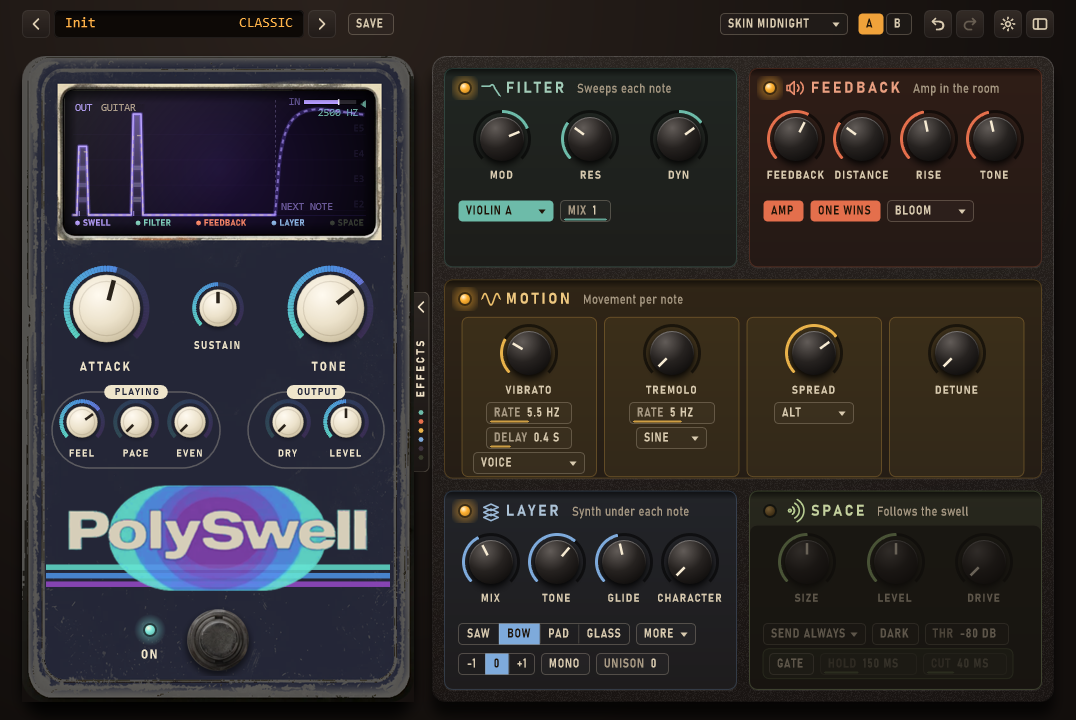
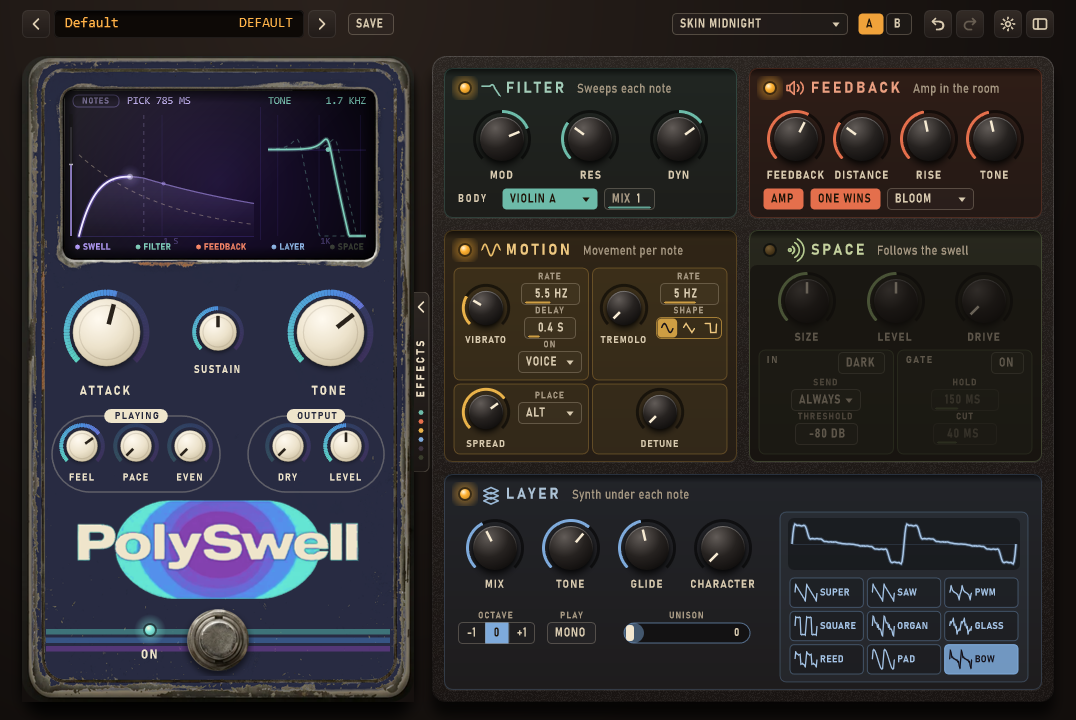
POG2 curve without the make-up gain (ATTACK only shapes the swell, LEVEL sets the volume); presets rebalanced; Sunburst Night skin

Changed region(s): [[0.0, 0.0, 0.9814, 0.9778], [0.6134, 0.0, 0.7361, 0.0611]]

diff --git a/site/index.html b/site/index.html
@@ -14,6 +14,7 @@
     --r1: #e09a45; --r2: #d9732f; --r3: #bc4320; --accent: #d9732f; --onAccent: #fff4df;
   }
   body[data-skin="lagoon"]   { --r1: #4fc3b5; --r2: #3b86c9; --r3: #6a3aa0; --accent: #3b86c9; --onAccent: #f2f6ff; }
+  body[data-skin="night"]    { --bg: #161310; --paper: #1f1b17; --ink: #efe5cb; --ink2: #b3a68f; --line: rgba(239,229,203,.18); }
   body[data-skin="midnight"] { --bg: #1b1d2c; --paper: #23263a; --ink: #efe5cb; --ink2: #b3aa95; --line: rgba(239,229,203,.18);
                                --r1: #5ed6c5; --r2: #4c8fe0; --r3: #9248c2; --accent: #4c8fe0; --onAccent: #f2f6ff; }
   * { box-sizing: border-box; }
@@ -80,6 +81,7 @@
     <button data-skin="sunburst" aria-pressed="true">Sunburst</button>
     <button data-skin="lagoon" aria-pressed="false">Lagoon</button>
     <button data-skin="midnight" aria-pressed="false">Midnight</button>
+    <button data-skin="night" aria-pressed="false">Night</button>
   </div>
 
   <section>
@@ -89,7 +91,7 @@
       <div class="card"><h3>Follows your playing</h3><p>FEEL, PACE and EVEN shape the swell from how hard and how fast you play.</p></div>
       <div class="card"><h3>Note-aware effects</h3><p>Filter sweeps, amp-in-the-room feedback, vibrato and detune, a synth layer under each note, and a space that follows the swell.</p></div>
       <div class="card"><h3>See what you hear</h3><p>A live window draws every note you play, and shows a picture of what each knob does while you turn it.</p></div>
-      <div class="card"><h3>Made to play</h3><p>Presets for Lead, Pad and Feedback, undo/redo, A/B compare, MIDI learn for footswitches and expression pedals, and three skins.</p></div>
+      <div class="card"><h3>Made to play</h3><p>Presets for Lead, Pad and Feedback, undo/redo, A/B compare, MIDI learn for footswitches and expression pedals, and four skins.</p></div>
       <div class="card"><h3>Light on CPU</h3><p>Built to run next to your amp sim, with no added latency on the main path.</p></div>
     </div>
   </section>

diff --git a/Source/PluginEditor.cpp b/Source/PluginEditor.cpp
@@ -50,9 +50,10 @@ struct Skin
     juce::Image plateImg() const { return juce::ImageCache::getFromMemory (plate, plateSize); }
     juce::Image logoImg() const  { return juce::ImageCache::getFromMemory (logo, logoSize); }
 };
+constexpr int kNumSkins = 4;   // Sunburst, Lagoon, Midnight, Sunburst Night
 const Skin& skinAt (int i)
 {
-    static const Skin s[3] = {
+    static const Skin s[kNumSkins] = {
         { "Sunburst", BinaryData::plate_sunburst_png, BinaryData::plate_sunburst_pngSize, BinaryData::logo_sunburst_png, BinaryData::logo_sunburst_pngSize,
           Colour (0xff2a231b), Colour (0xffefe5cc), Colour (0x592a231b), Colour (0xffd9732f), Colour (0xfffff4df), Colour (0xffffb030),
           { Colour (0xffe09a45), Colour (0xffd9732f), Colour (0xffbc4320) },
@@ -64,8 +65,12 @@ const Skin& skinAt (int i)
         { "Midnight", BinaryData::plate_midnight_png, BinaryData::plate_midnight_pngSize, BinaryData::logo_midnight_png, BinaryData::logo_midnight_pngSize,
           Colour (0xffefe5cb), Colour (0xff23263a), Colour (0x47efe5cb), Colour (0xff4c8fe0), Colour (0xfff2f6ff), Colour (0xff7fe9dc),
           { Colour (0xff5ed6c5), Colour (0xff4c8fe0), Colour (0xff9248c2) },
-          Colour (0xff1d1036), Colour (0xff06040b), Colour (0xff7a5cff), Colour (0xffb49bff), Colour (0xfff1eaff), Colour (0xff9a86e6), Colour (0xffcbb8ff) } };
-    return s[juce::jlimit (0, 2, i)];
+          Colour (0xff1d1036), Colour (0xff06040b), Colour (0xff7a5cff), Colour (0xffb49bff), Colour (0xfff1eaff), Colour (0xff9a86e6), Colour (0xffcbb8ff) },
+        { "Sunburst Night", BinaryData::plate_night_png, BinaryData::plate_night_pngSize, BinaryData::logo_night_png, BinaryData::logo_night_pngSize,
+          Colour (0xffefe5cb), Colour (0xff1c1916), Colour (0x47efe5cb), Colour (0xffd9732f), Colour (0xfffff4df), Colour (0xffffb030),
+          { Colour (0xffe09a45), Colour (0xffd9732f), Colour (0xffbc4320) },
+          Colour (0xff3a1a08), Colour (0xff0c0503), Colour (0xffff8a1f), Colour (0xffffb347), Colour (0xfffff1cf), Colour (0xffe89a45), Colour (0xffffc777) } };
+    return s[juce::jlimit (0, kNumSkins - 1, i)];
 }
 
 // ------------------------------------------------------------------------------------------------ geometry
@@ -991,14 +996,7 @@ struct SignalWindow : juce::Component, juce::Timer
             // after the swell: from the matched level, at SUSTAIN's rate (or the string's own, without SUSTAIN)
             return during (attack) * std::pow (10.f, -rate * (t - attack) / 20.f);
         }
-        return pogGain (attack) * std::pow (10.f, (-8.f * t + lift) / 20.f) * swellGain (attack < 0.002f ? 1.f : t / attack, juce::roundToInt (P ("swellShape")));
-    }
-    // the POG2 shape's own make-up gain (as the engine; none with MATCH)
-    float pogGain (float attack) const
-    {
-        if (juce::roundToInt (P ("swellShape")) != 2 || P ("levelMatch") > 0.5f || attack < 0.002f) return 1.f;
-        const float tau = juce::jmax (attack / 3.f, 1.0e-3f);
-        return std::pow (10.f, juce::jlimit (0.f, 13.f, 5.75f + 4.83f * (std::log10 (tau) + 0.745f)) / 20.f);
+        return std::pow (10.f, (-8.f * t + lift) / 20.f) * swellGain (attack < 0.002f ? 1.f : t / attack, juce::roundToInt (P ("swellShape")));
     }
     // PACE, as the engine: the swell fast playing allows (0.4 x the time since the last note), blended in by PACE
     float pacedAttack (float A, float gap) const
@@ -2204,7 +2202,7 @@ struct PolySwellEditor::Board : juce::Component, Host, juce::Timer
 
     void applySkin (int index)
     {
-        proc.uiSkin = juce::jlimit (0, 2, index);
+        proc.uiSkin = juce::jlimit (0, kNumSkins - 1, index);
         currentSkin = &skinAt (proc.uiSkin);
         look.skin = currentSkin;
         window.setSkin (*currentSkin);
@@ -2267,7 +2265,7 @@ struct PolySwellEditor::Board : juce::Component, Host, juce::Timer
         saveC->onPress = [this] { savePreset(); };
         skinC = chip (Chip::custom, "", "SKIN", col::amber, "Skin: the pedal's plate and colours (Sunburst, Lagoon, Midnight).", barOnly);
         skinC->textFn = [this] { return "SKIN " + String (skinAt (proc.uiSkin).name).toUpperCase(); };
-        skinC->setSize (128, 22);
+        skinC->setSize (176, 22);
         skinC->onPress = [this] { skinMenu (skinC); };
         for (int i = 0; i < 2; ++i)
         {
@@ -2607,7 +2605,7 @@ struct PolySwellEditor::Board : juce::Component, Host, juce::Timer
     void skinMenu (juce::Component* target)
     {
         juce::PopupMenu m;
-        for (int i = 0; i < 3; ++i) m.addItem (1 + i, skinAt (i).name, true, proc.uiSkin == i);
+        for (int i = 0; i < kNumSkins; ++i) m.addItem (1 + i, skinAt (i).name, true, proc.uiSkin == i);
         m.setLookAndFeel (&look);
         m.showMenuAsync (juce::PopupMenu::Options().withTargetComponent (target), [this] (int r) { if (r > 0) applySkin (r - 1); });
     }
@@ -2666,13 +2664,13 @@ struct PolySwellEditor::Board : juce::Component, Host, juce::Timer
         }
         m.addSubMenu ("ATTACK tempo sync", syncM);
         juce::PopupMenu skinM;
-        for (int i = 0; i < 3; ++i) skinM.addItem (380 + i, skinAt (i).name, true, proc.uiSkin == i);
+        for (int i = 0; i < kNumSkins; ++i) skinM.addItem (380 + i, skinAt (i).name, true, proc.uiSkin == i);
         m.addSubMenu ("Skin", skinM);
         m.setLookAndFeel (&look);
         m.showMenuAsync (juce::PopupMenu::Options().withTargetComponent (&gearB), [this, sizes] (int r)
         {
             auto flip = [this] (const char* id) { setParam (id, getParam (id) > 0.5f ? 0.f : 1.f); };
-            if (r >= 380 && r < 383) applySkin (r - 380);
+            if (r >= 380 && r < 380 + kNumSkins) applySkin (r - 380);
             else if (r >= 390 && r < 393) setParam ("swellShape", (float) (r - 390));
             else if (r == 395) setParam ("levelMatch", getParam ("levelMatch") > 0.5f ? 0.f : 1.f);
             else if (r == 400) setParam ("sync", 0.f);

diff --git a/Source/PluginProcessor.cpp b/Source/PluginProcessor.cpp
@@ -36,8 +36,8 @@ namespace
                                            { "fbRise", 1.2f }, { "smearOn", 1 }, { "smearLevel", 0.3f }, { "smearSize", 0.45f }, { "smearSend", 1 } } },
             // the owner's POG2 setting (run G1), fitted by rendering the test file (tools/pog2_compare.py): ATTACK 2 s,
             // 18 dB/oct at 1 kHz, the +-10 cent copies 15..19 dB under the note (MIX 0.39). Held notes ~2 dB, plucks ~4 dB.
-            { "POG2 swell", "Pad", { { "attack", 2000 }, { "freq", 1000 }, { "detune", 10.1f }, { "detuneMix", 0.39f } } },
-            { "Warm pad", "Pad", { { "attack", 1200 }, { "sustain", 0.8f }, { "freq", 1800 }, { "mod", 0.4f }, { "res", 0.15f },
+            { "POG2 swell", "Pad", { { "attack", 2000 }, { "vol", 8.5f }, { "freq", 1000 }, { "detune", 10.1f }, { "detuneMix", 0.39f } } },
+            { "Warm pad", "Pad", { { "attack", 1200 }, { "vol", 4.5f }, { "sustain", 0.8f }, { "freq", 1800 }, { "mod", 0.4f }, { "res", 0.15f },
                                    { "spread", 0.6f }, { "detuneMix", 0.5f }, { "smearOn", 1 }, { "smearSize", 0.7f }, { "smearLevel", 0.5f }, { "smearSend", 1 } } },
             { "Glass pad", "Pad", { { "attack", 900 }, { "sustain", 0.6f }, { "voiceMix", 0.4f }, { "voiceWave", 5 }, { "voiceOct", 2 }, { "voiceTone", 5000 },
                                     { "voiceUnison", 0.3f }, { "spread", 0.5f }, { "smearOn", 1 }, { "smearSize", 0.65f }, { "smearLevel", 0.45f } } },
@@ -1031,7 +1031,7 @@ void PolySwellProcessor::setStateInformation (const void* data, int size)
             userPresetLoaded = (bool) vt.getProperty ("userPreset", false);
             uiPedalsOpen = (bool) vt.getProperty ("uiPedalsOpen", true);
             uiScale = juce::jlimit (0.75f, 2.f, (float) (double) vt.getProperty ("uiScale", 1.0));
-            uiSkin = juce::jlimit (0, 2, (int) vt.getProperty ("uiSkin", 0));
+            uiSkin = juce::jlimit (0, 3, (int) vt.getProperty ("uiSkin", 0));
             uiWindowNotes = (bool) vt.getProperty ("uiWindowNotes", false);
             for (int i = 0; i < 3; ++i)
             {

diff --git a/Source/dsp/SwelloEngine.h b/Source/dsp/SwelloEngine.h
@@ -69,7 +69,7 @@ namespace tuning
     // come back to about their pick level (held notes come out louder): +2.3 dB at tau 31 ms, +5.9 dB at 166 ms,
     // +9.9 dB at 1.45 s. Fit: dB = 5.75 + 4.83 (log10(tau) + 0.745), 0..13 dB.
     constexpr float pogK              = 3.0f;
-    constexpr float pogGainDb0        = 5.75f, pogGainSlope = 4.83f, pogGainLogRef = -0.745f, pogGainMaxDb = 13.0f;
+    // (the measured make-up gain is documented above but not applied: see the attack gain in the frame loop)
     constexpr float matchMaxBoost     = 8.0f;    // level-matched swell: at most +18 dB of make-up
     constexpr float matchPeakFrom     = 0.03f;   // ... the pick's level is the loudest frame 30..110 ms after the onset
     constexpr float matchPeakSec      = 0.11f;   //     (the first frames hold the pick's click spread over many bins)
@@ -817,13 +817,8 @@ private:
             // 2) attack gain
             const float ph = phase[i];
             float g = swellGain(ph, params.swellShape) * binEven[i];
-            // POG2: the pedal's own make-up gain for this note's swell time (not with MATCH, which does the same job per note)
-            if (params.swellShape == 2 && ! params.levelMatch && T > 0.f)
-            {
-                const float tau = std::max(T * attackMul[i] / tuning::pogK, 1.0e-3f);
-                const float db = std::clamp(tuning::pogGainDb0 + tuning::pogGainSlope * (std::log10(tau) - tuning::pogGainLogRef), 0.f, tuning::pogGainMaxDb);
-                g *= std::pow(10.f, db / 20.f);
-            }
+            // (POG2: the pedal's own make-up gain, which grows with ATTACK, is NOT modelled - owner, 2026-11-22: it made long
+            // swells jump back to full level within a second and did LEVEL's job unseen. MATCH is the per-note alternative.)
             if (params.bowedBody) g *= bodyGain[i];
             if (repickFloor[i] > 0.f)
             {

diff --git a/tests/engine_test.cpp b/tests/engine_test.cpp
@@ -1386,7 +1386,7 @@ int main()
         check(rms < 0.002, "muting the string kills the feedback");
     }
 
-    std::printf("Test 36: POG2 swell (measured: 1 - e^(-t/tau), tau = ATTACK / 3, plus the pedal's make-up gain)\n");
+    std::printf("Test 36: POG2 swell (measured: 1 - e^(-t/tau), tau = ATTACK / 3; the pedal's make-up gain is left out)\n");
     {
         const int n = at(3.0), t0 = at(0.2);
         std::vector<float> x((size_t) n, 0.f);
@@ -1402,7 +1402,7 @@ int main()
                     at1, classicAt, gainDb, matchDb);
         check(at1 > 0.5 && at1 < 0.75, "POG2 shape: fast start, about 63 % after one time constant");
         check(classicAt < 0.25, "the classic shape starts slowly (for comparison)");
-        check(gainDb > 4.5 && gainDb < 7.0, "POG2 make-up gain for a 0.5 s swell (about +6 dB, as measured)");
+        check(std::abs(gainDb) < 1.0, "no make-up gain: a swell settles at the guitar's own level (LEVEL sets the volume)");
         check(std::abs(matchDb) < 1.0, "with MATCH the POG2 gain is left out (MATCH does that job per note)");
     }
 

diff --git a/Source/PluginEditor.h b/Source/PluginEditor.h
@@ -15,7 +15,7 @@ public:
     void setPanelOpen (bool open);      // show / hide the effects panel (the window gets narrower)
     void setUiScale (float scale);      // 0.75 .. 2
     void showKnobView (const juce::String& paramId, bool on);   // as if the mouse were over that knob (ui_snapshot)
-    void setSkin (int index);           // 0 Sunburst, 1 Lagoon, 2 Midnight
+    void setSkin (int index);           // 0 Sunburst, 1 Lagoon, 2 Midnight, 3 Sunburst Night
 
     static constexpr int kBaseW = 1076, kPedalOnlyW = 436, kBaseH = 720;
 

diff --git a/tools/ui_snapshot.cpp b/tools/ui_snapshot.cpp
@@ -316,7 +316,7 @@ int main (int argc, char** argv)
     if (pe != nullptr)
     {
         pe->setUiScale (1.f);
-        for (int sk = 0; sk < 3; ++sk) { pe->setSkin (sk); pump (300); shoot (e, out.getChildFile ("skin_" + juce::String (sk) + ".png")); }
+        for (int sk = 0; sk < 4; ++sk) { pe->setSkin (sk); pump (300); shoot (e, out.getChildFile ("skin_" + juce::String (sk) + ".png")); }
         pe->setSkin (0);
     }
 

diff --git a/CLAUDE.md b/CLAUDE.md
@@ -218,3 +218,9 @@ rings (outer = lightest). Switch: SKIN chip in the top bar or gear > Skin; saved
   faded unless an IR is chosen. Window caption says FEEL+PACE when both changed a pick's attack; the hardest pick peaks
   at 95 % (was clipped). MOTION = 2 x 2 boxes (VIBRATO | TREMOLO with settings beside, SPREAD | DETUNE), tremolo SHAPE
   as pictures (`ShapeSeg`). Midnight plate regenerated from Sunburst (only warm cream paint -> navy; rim and worn frame kept).
+- POG2 make-up gain removed (owner: a 12 s ATTACK still jumped back to full level within ~1 s; LEVEL is the volume).
+  Measured: with only DRY OUTPUT up and ATTACK at 0 the POG2 is unity (1.00); the gain grows with its ATTACK (+2.2 dB at
+  1/4, +5.9 at 1/2, +8.3 at 3/4). Only the curve shape is modelled now; MATCH is the per-note "back to pick level".
+  Test 36 checks there is no gain. Presets POG2 swell (+8.5 dB LEVEL) and Warm pad (+4.5) rebalanced (`--peaks`).
+- Fourth skin Sunburst Night (`kNumSkins`): charcoal plate (`plate_night.png`, cream paint -> #221e1a), the Sunburst
+  logo with cream lettering (`logo_night.png`), cream ink, Sunburst rings and glow.

diff --git a/README.md b/README.md
@@ -13,7 +13,7 @@ ambient pads and "amp in the room" feedback. The swell is modelled on a measured
 - Per-note swell (ATTACK, SUSTAIN, TONE), shaped by how you play (FEEL, PACE, EVEN), with MATCH for level-matched swells.
 - Effects panel, all note-aware: FILTER, FEEDBACK (amp in the room), MOTION, LAYER (a synth under each note), SPACE.
 - A live signal window showing each note you play, and a picture of what each knob does as you turn it.
-- Three skins (Sunburst, Lagoon, Midnight), undo/redo, A/B compare, MIDI learn, presets for Lead / Pad / Feedback.
+- Four skins (Sunburst, Lagoon, Midnight, Sunburst Night), undo/redo, A/B compare, MIDI learn, presets for Lead / Pad / Feedback.
 
 ## Install (no building needed)
 Download the zip for your system from [the latest release](../../releases/latest):
